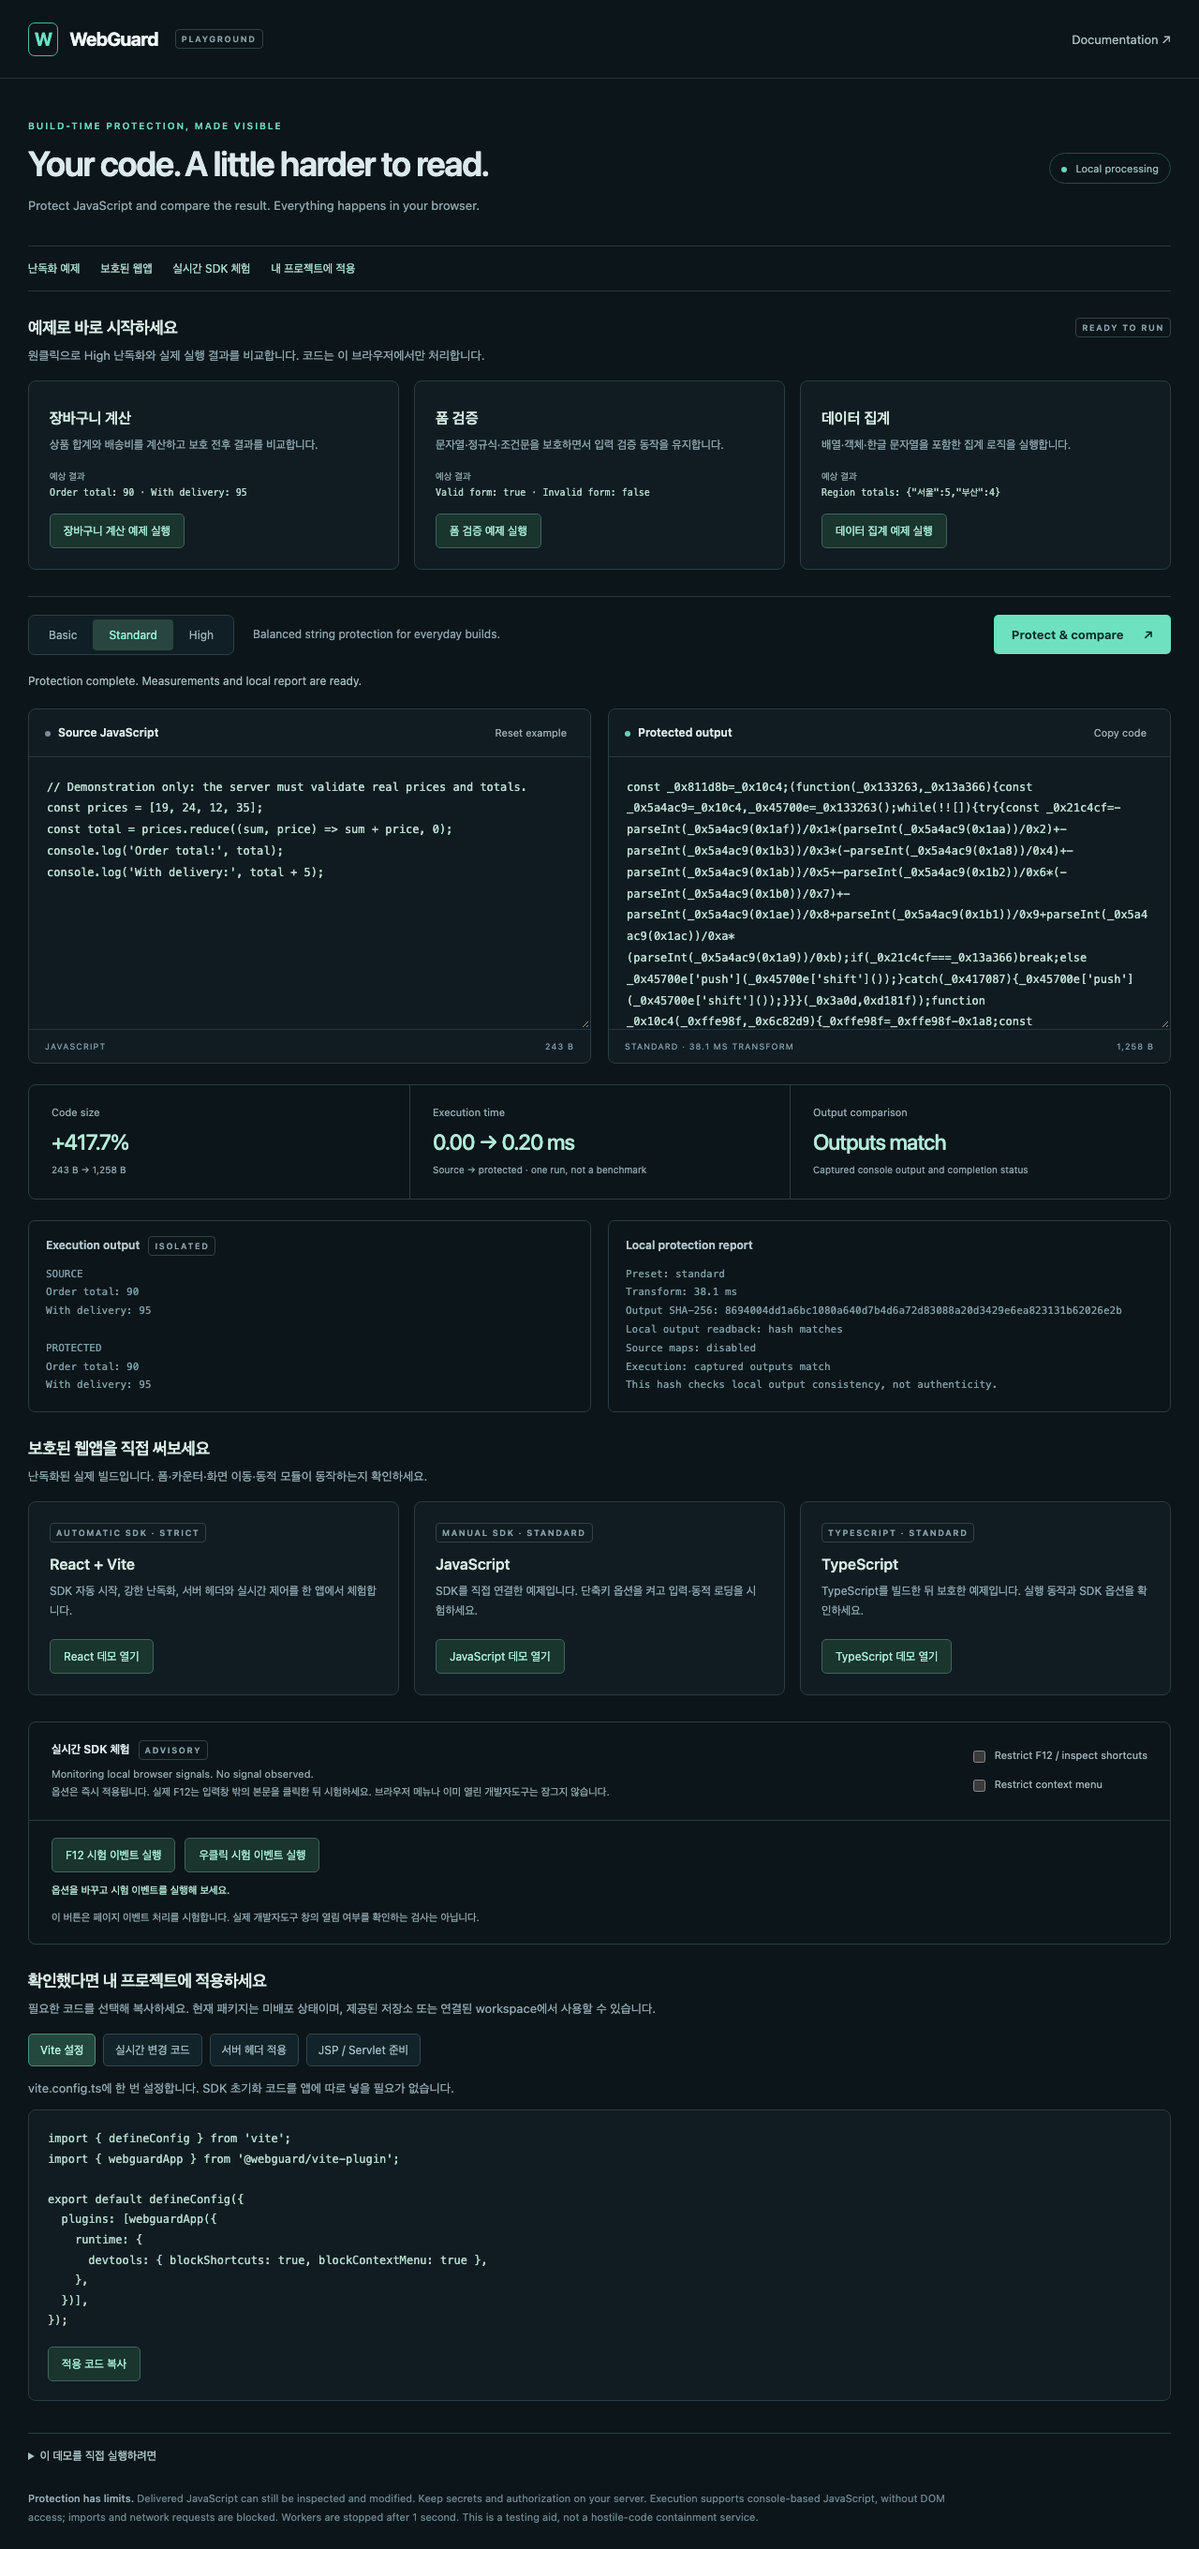
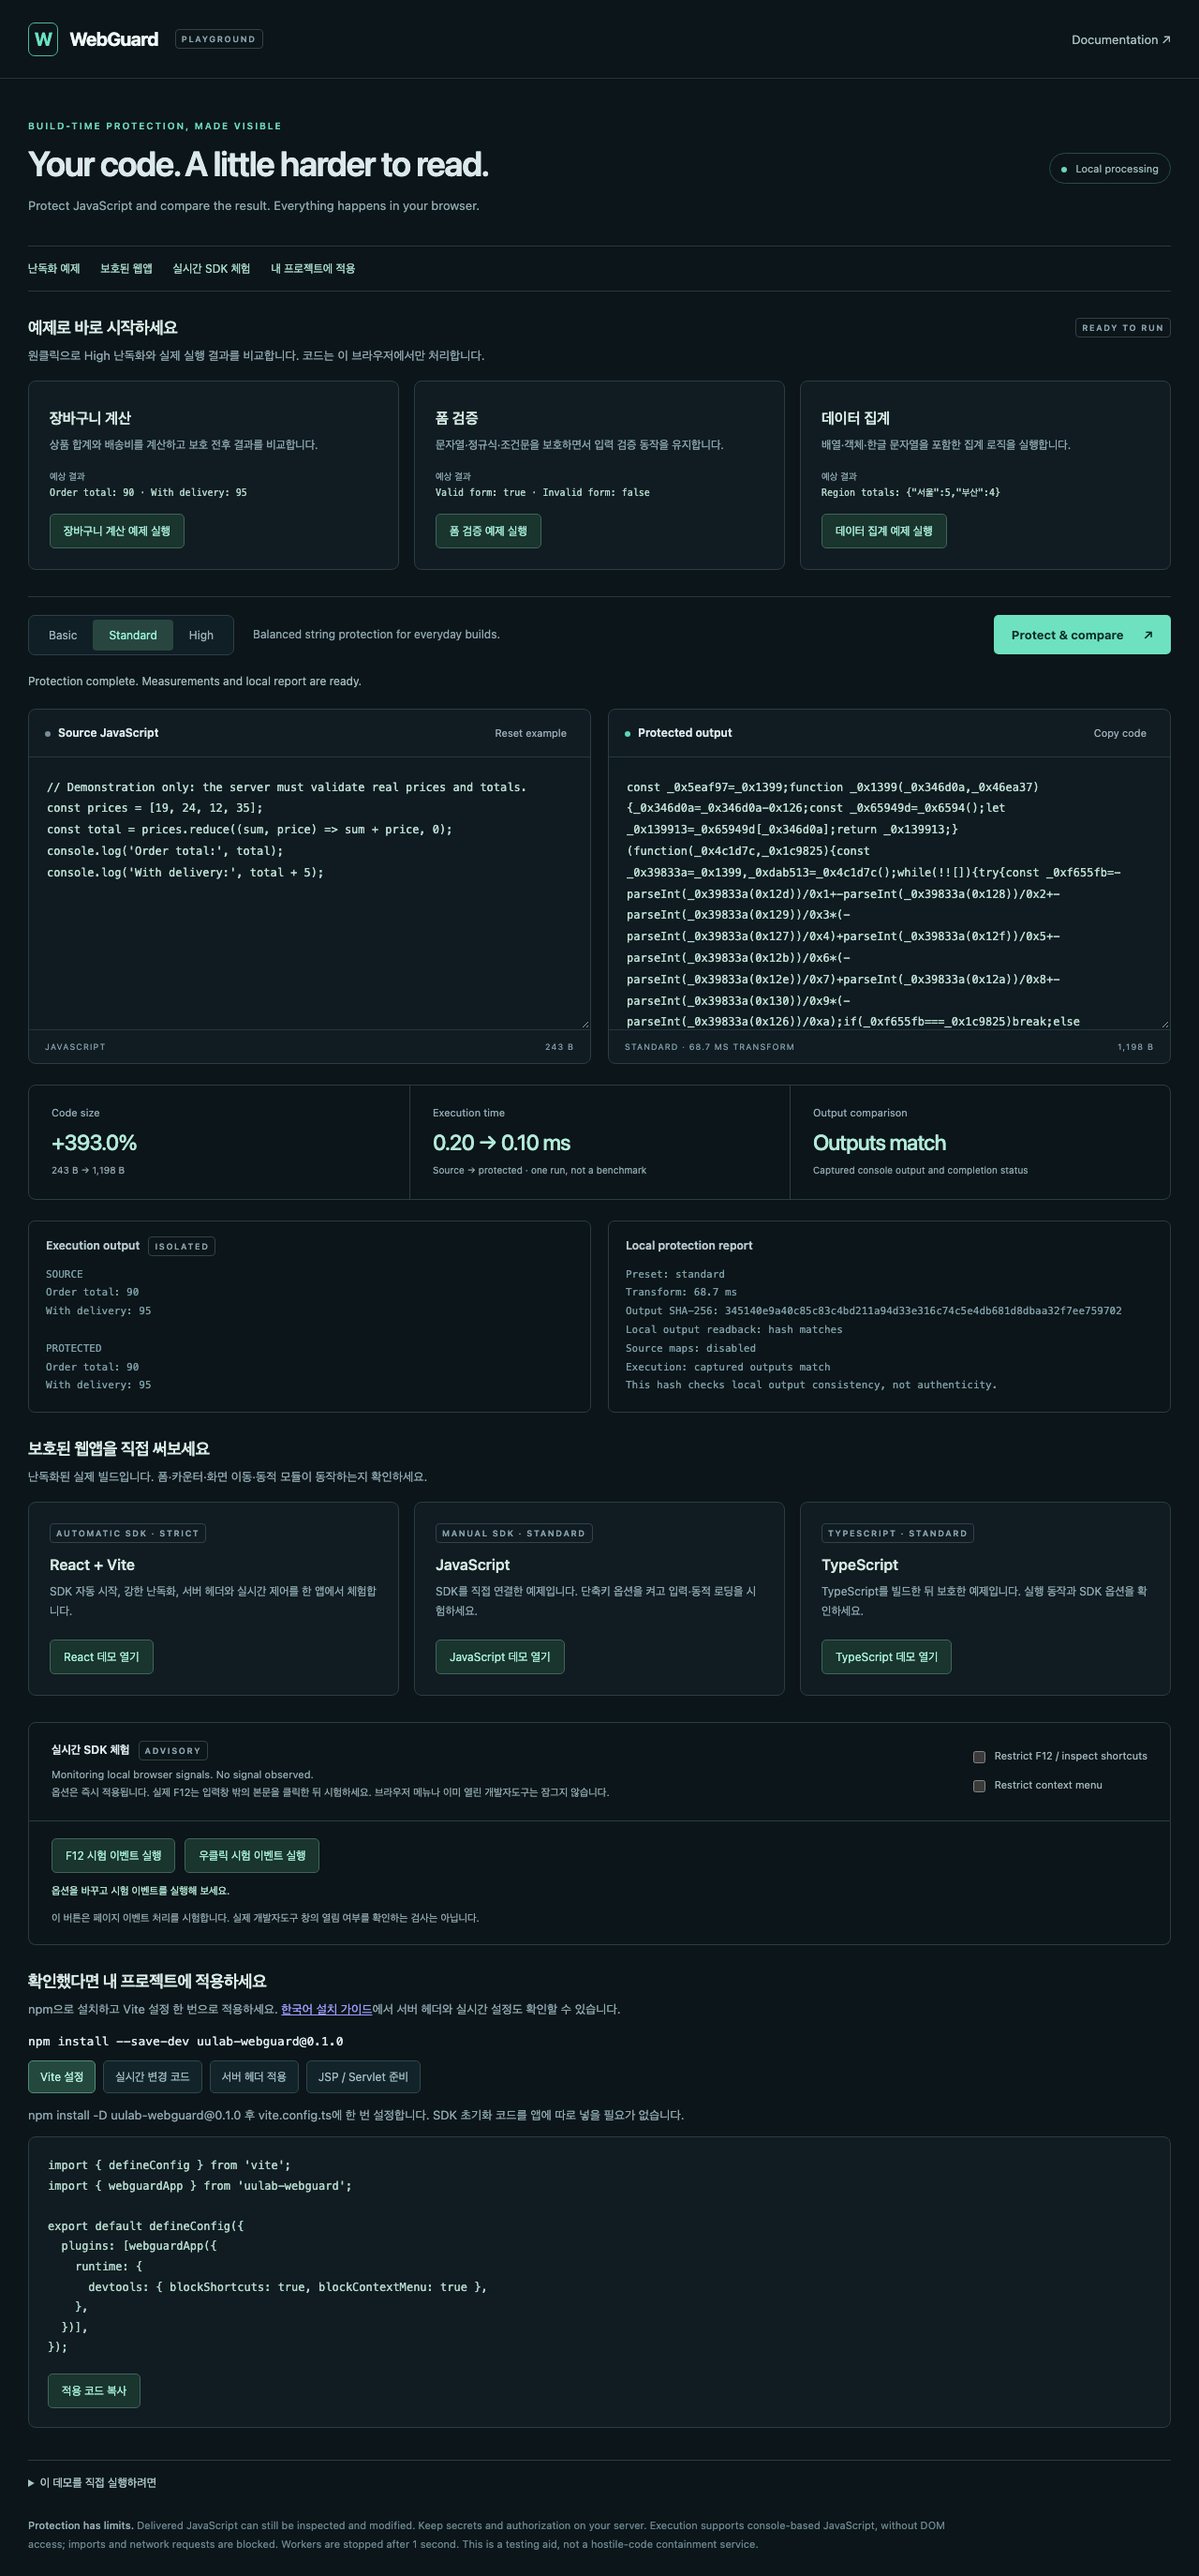
docs: record npm publication and live Korean onboarding verification

diff --git a/docs/PUBLIC_DEMO.md b/docs/PUBLIC_DEMO.md
@@ -6,14 +6,16 @@ The public adapter runs the same demo applications on Cloudflare Workers Static 
 
 ## Verified release
 
-Verified on 2026-10-20 (Asia/Seoul): Worker version `d8c6a71b-c105-4725-8987-19b10e9592c5`, deployment `3eac78cd-2391-4965-bfb5-0792bffea70e`, serving 100% of traffic through the enabled public Workers subdomain.
+Verified on 2026-10-20 (Asia/Seoul): Worker version `ac321925-7076-4594-a727-84058b65633f`, deployment `cc6c7c11-eb28-427d-98be-f55b3b54e2d2`, serving 100% of traffic through the enabled public Workers subdomain.
 
 - All 35 public checks passed: two HTTP/integrity checks and 33 browser checks across Chromium, Firefox and WebKit. No localhost preview server is used by this matrix.
-- All 26 publicly deployed files matched prepared local SHA-256 values. All five application mounts returned their intended response policies. Source maps, configuration, reports and original source probes returned 404.
-- Local validation passed: all 12 build tasks plus mounted demo builds, root/Worker TypeScript, ESLint, formatting, 158 unit/integration tests and 54 browser tests.
+- All 27 publicly deployed files matched prepared local SHA-256 values. All five application mounts returned their intended response policies. Source maps, configuration, reports and original source probes returned 404.
+- Local validation passed: all 13 build tasks plus mounted demo builds, root/Worker TypeScript, ESLint, formatting, 162 unit/integration tests and 54 browser tests.
 - Vanilla example controls stay disabled until initialization completes. Browser regressions deliberately delay the script response and verify the first enabled click works. Preparation also rejects overlapping and symlinked output paths before creating directories.
 
-[Deployment metadata, hashes and HTTP readback](evidence/public-deployment.json) · [Public screenshot](evidence/public-demo.png). These are public HTTPS and local desktop-engine observations; npm publication, remote CI and physical-device testing are separate.
+[Deployment metadata, hashes and HTTP readback](evidence/npm-onboarding-deployment.json) · [Public screenshot](evidence/public-demo.png). These are public HTTPS and local desktop-engine observations; npm publication is separately verified in [the release evidence](evidence/npm-release.json); remote CI and physical-device testing remain separate.
+
+The public onboarding now includes `npm install --save-dev uulab-webguard@0.1.0`, copyable one-setting Vite integration and the [full Korean guide](https://webguard-demo.uulab.workers.dev/docs/INSTALL.ko.txt). The original public release record is retained in [its evidence file](evidence/public-deployment.json).
 
 ## Build and deploy
 

diff --git a/docs/NPM_RELEASE.md b/docs/NPM_RELEASE.md
@@ -2,7 +2,7 @@
 
 The only public distribution target is **`uulab-webguard@0.1.0`**, public access on `https://registry.npmjs.org`. Internal `@webguard/*` packages are not publication targets. The public facade bundles their runtime code and declarations; its external dependencies are declared normally.
 
-Current state: release candidate verified locally; npm identity lookup returned HTTP 401, so registry publication and registry consumer verification are incomplete. The existing public demo remains on its previously verified deployment. New onboarding pages are staged locally and must be deployed after publication.
+Current state (2026-10-20): `uulab-webguard@0.1.0` is publicly published by `uulab`, with `latest` pointing to 0.1.0. The downloaded registry tarball matches the reviewed SHA-512. Fresh registry consumers passed with Vite 7.3.1 and 8.3.4, including type resolution, protected builds, automatic SDK, live controls, server policies and zero Chromium page errors. See [registry release evidence](evidence/npm-release.json).
 
 ## Authenticate
 
@@ -43,7 +43,7 @@ node scripts/verify-npm-consumer.mjs --registry --vite 7.3.1
 
 ## Update the public onboarding
 
-After registry verification succeeds, remove the pending-publication note from the root README and this status paragraph. Rebuild and deploy the staged Korean onboarding:
+After registry verification succeeds, rebuild and deploy the Korean onboarding:
 
 ```sh
 pnpm deploy:build

diff --git a/docs/superpowers/plans/2026-10-20-npm-release.md b/docs/superpowers/plans/2026-10-20-npm-release.md
@@ -45,7 +45,7 @@ Files: docs/INSTALL.ko.md, packages/npm/README.md, README.md, scripts/release-np
 
 ## Task 3: Publish and verify
 
-- [ ] Confirm npm identity and available public name. Publish exact tarball, satisfying npm human authentication if prompted.
-- [ ] Read registry version/integrity and perform clean install without tarball/workspace overrides; repeat consumer build/type/browser checks.
-- [ ] Update public onboarding only with confirmed registry status, rebuild and deploy documentation/demo, then verify public routes.
-- [ ] Record exact release/deployment evidence and local commit. If provider authentication blocks, finish all independent work and state the precise remaining step.
+- [x] Confirm npm identity and available public name. Publish exact tarball, satisfying npm human authentication if prompted.
+- [x] Read registry version/integrity and perform clean install without tarball/workspace overrides; repeat consumer build/type/browser checks.
+- [x] Update public onboarding only with confirmed registry status, rebuild and deploy documentation/demo, then verify public routes.
+- [x] Record exact release/deployment evidence and local commit. If provider authentication blocks, finish all independent work and state the precise remaining step.

diff --git a/docs/DEMO_GUIDE.md b/docs/DEMO_GUIDE.md
@@ -30,7 +30,7 @@ The three code snippets execute through the existing isolated console harness. T
 
 The Playground includes selectable, copyable Vite setup, live update, Node server and JSP/Servlet preparation snippets. Clipboard failure selects the code for manual copying. Read [one-setting setup](ONE_STEP_SETUP.md) for supported application builds, opt-outs and compatibility details.
 
-The packages are unpublished local workspace packages with temporary names. Examples use workspace links; do not install an unrelated registry package expecting this code. The public demo does not require npm package publication.
+The public distribution is `uulab-webguard@0.1.0`. Follow [the Korean installation guide](INSTALL.ko.md) for an external Vite application. Checked-in examples retain their internal `@webguard/*` workspace links; do not install an unrelated registry package expecting those names.
 
 JSP/Servlet needs Java 17, Maven and Tomcat 10.1+. The in-page JSP tab shows the asset-preparation and WAR build commands. See [the JSP example](../examples/jsp-servlet/README.md); its server cannot run inside the browser sandbox.
 

diff --git a/README.md b/README.md
@@ -10,7 +10,7 @@ Local, open-source build protection for browser applications. WebGuard raises th
 
 The public distribution is `uulab-webguard`. It bundles the internal workspaces, so consumers install only one protection package. [한국어 설치·적용 가이드](docs/INSTALL.ko.md).
 
-Release status (2026-10-20): the 0.1.0 tarball is prepared and locally tested; npm registry publication is waiting for CLI authentication (401). Installation by registry name becomes available after publication.
+Published as [`uulab-webguard@0.1.0`](https://www.npmjs.com/package/uulab-webguard). Fresh npm registry consumers passed with Vite 7.3.1 and 8.3.4, including declarations, protected builds, automatic SDK startup, live controls and applied HTTP policies.
 
 ```sh
 npm install --save-dev uulab-webguard@0.1.0
